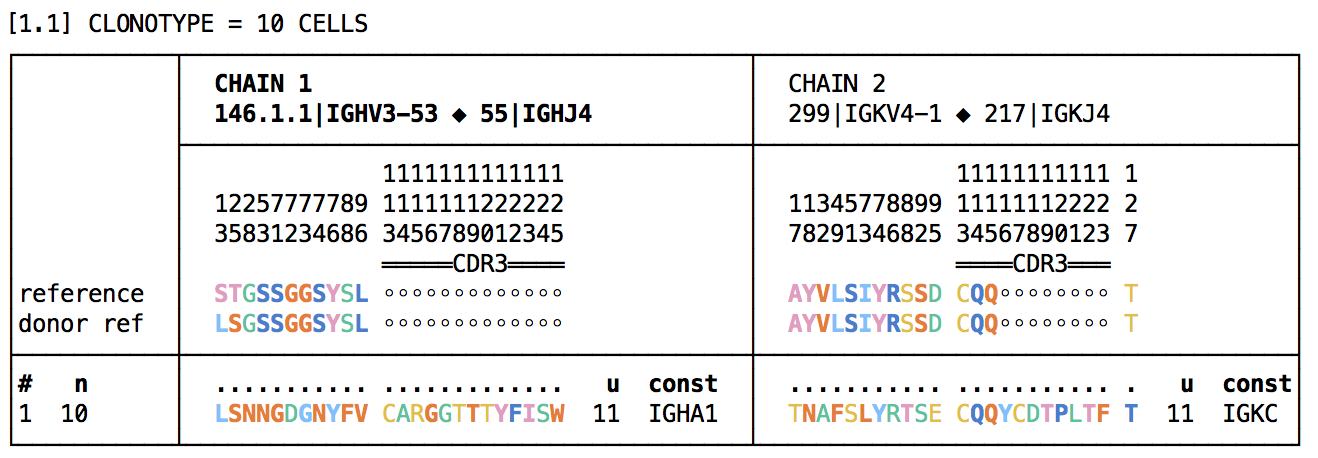
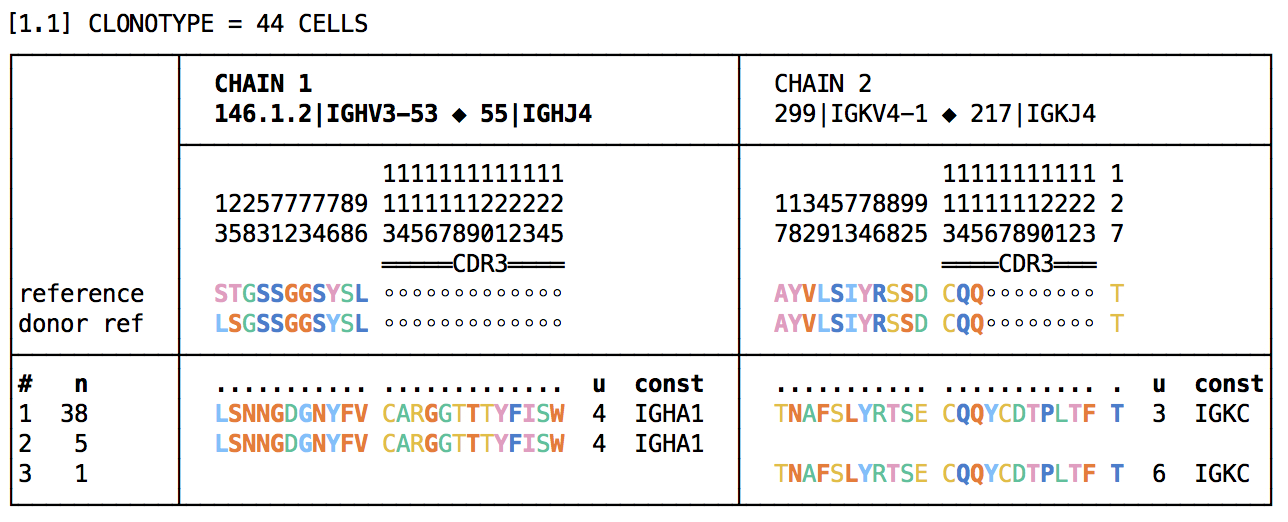
update

Changed region(s): [[0.0, 0.0, 0.9938, 0.9782]]

diff --git a/expanded.md b/expanded.md
@@ -51,15 +51,16 @@ enclone BCR=128040 GEX=127801 CDR3=CARGGTTTYFISW
 
 <img src="img/illusory3.png" alt="illusory3" title="illusory3" width=75% />
 
-Now we see only ten cells.  This is because the default behavior of enclone is to filter out
+Now we see less cells.  This is because the default behavior of enclone is to filter out
 cells called by the VDJ pipeline that are not also called by the GEX pipeline.
 
 Now we add the option `PER_CELL`, causing data for each cell to be displayed, and we also add two
 fields to the display.  One is `gex`, the normalized count of gene expression UMIs,
-and the other is a field `right`, that is more complicated.
+and the other is a field `right`, that is more complicated.  We will also hide the onesie
+(single chain) cells.
 
 ```
-enclone BCR=128040 GEX=127801 CDR3=CARGGTTTYFISW PER_CELL LVARSP=gex,right
+enclone BCR=128040 GEX=127801 CDR3=CARGGTTTYFISW PER_CELL LVARSP=gex,right MIN_CHAINS_EXACT=2
 ```
 
 <img src="img/illusory4.png" alt="illusory4" title="illusory4" width=80% />
